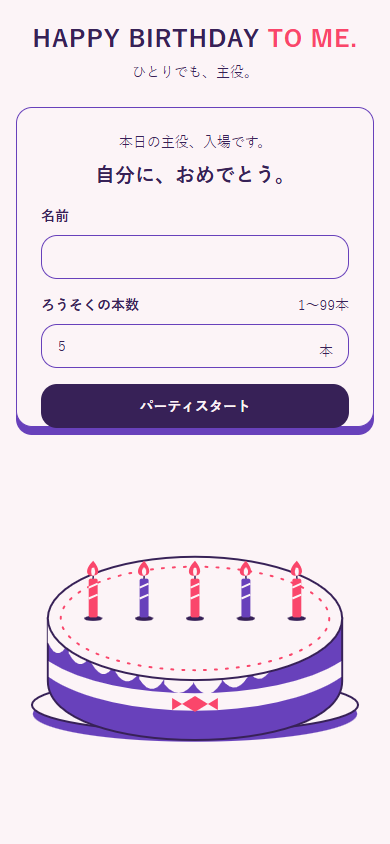
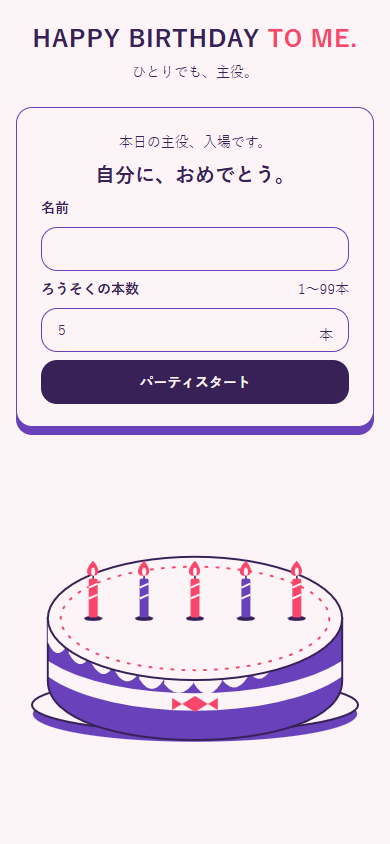
Balance input card spacing

Changed region(s): [[0.0923, 0.2156, 0.8923, 0.5237]]

diff --git a/dist/style.css b/dist/style.css
@@ -33,7 +33,7 @@ button:focus-visible, input:focus-visible { outline: 3px solid var(--color-accen
 .brand p { margin: var(--space-1) 0 0; font-size: var(--font-small); line-height: 1.5; }
 
 .message-card { position: relative; height: 320px; padding: var(--space-3); border: 1px solid var(--color-accent); border-radius: var(--radius); background: var(--color-background); box-shadow: 0 var(--space-1) 0 var(--color-accent); }
-#setup { height: 100%; display: flex; flex-direction: column; gap: var(--space-2); }
+#setup { height: 100%; display: flex; flex-direction: column; gap: var(--space-1); }
 .card-heading { text-align: center; }
 .card-heading p { margin: 0 0 var(--space-1); font-size: var(--font-small); line-height: 1.5; }
 .card-heading h2 { margin: 0; font-size: var(--font-medium); font-weight: 900; line-height: 1.45; }
